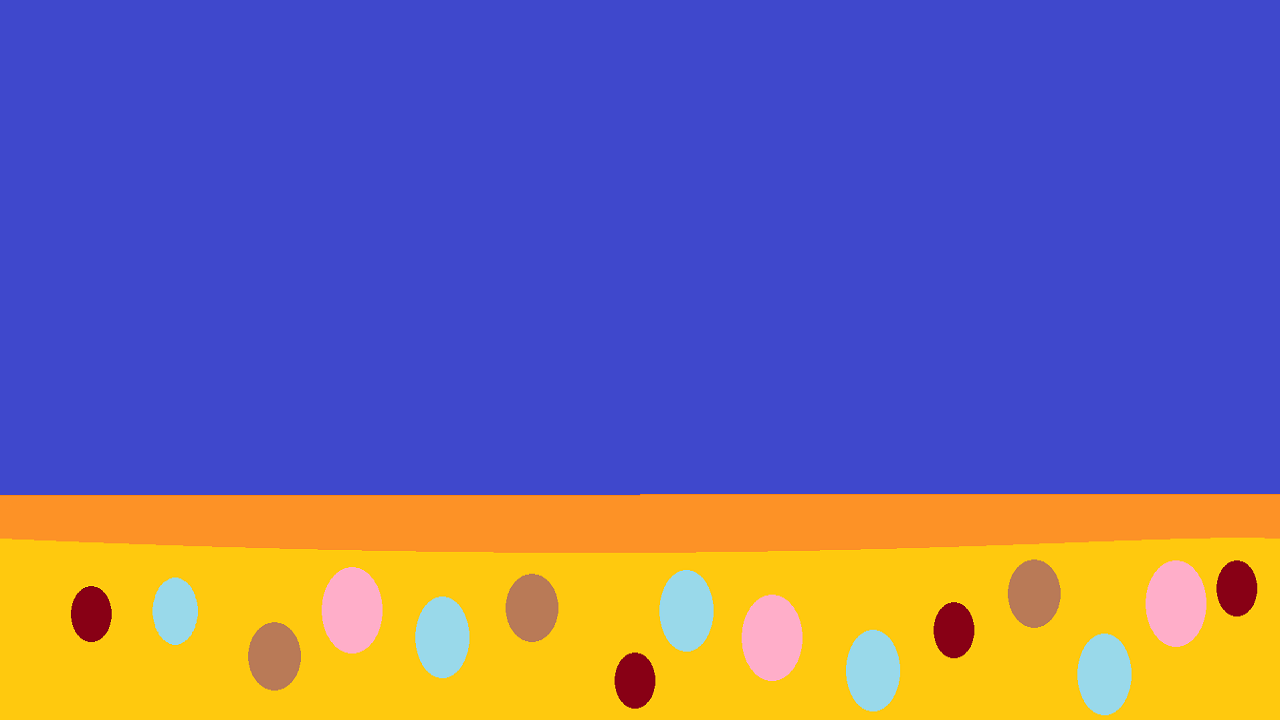
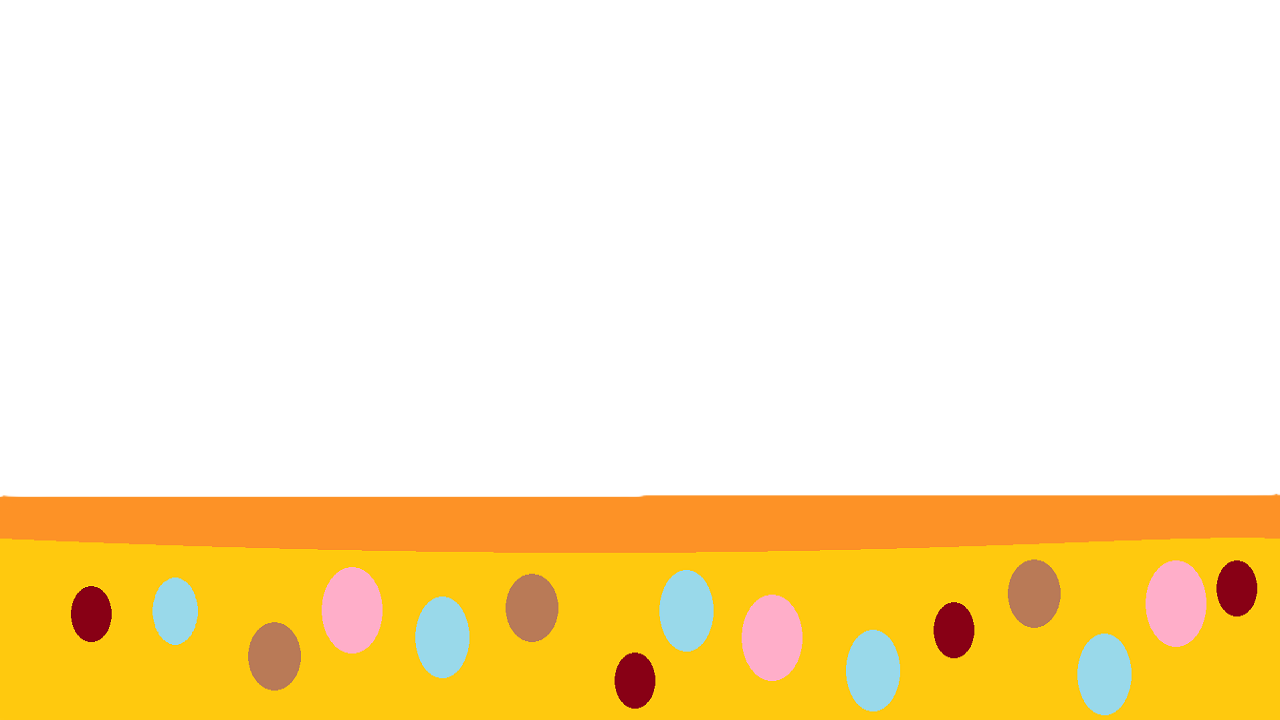
finished overlaying backgrounds; apparently I'm stupid

diff --git a/main.py b/main.py
@@ -116,9 +116,9 @@ class AllBackgrounds:
     self.background_3.speed = speed - 14
     
   def draw(self):
-    # self.background_3.draw()
-    # self.background_2.draw()
-    # self.background_1.draw()
+    self.background_3.draw()
+    self.background_2.draw()
+    self.background_1.draw()
     self.background_0.draw()
   
   def update(self):
@@ -138,44 +138,46 @@ class GameOver:
       SCREEN_WIDTH / 2, SCREEN_HEIGHT / 3, 'midtop')
     window.blit(self.replay_image, self.rect)
     
-class Hawk:
-  # Can change later once we're testing game
-  BIRD_HEIGHTS = [30, 50, 60, 90, 110, 120]
+# class Hawk:
+#   # Can change later once we're testing game
+#   BIRD_HEIGHTS = [30, 50, 60, 90, 110, 120]
   
-  def __init__(self, x: int):
-    self.x = x
-    self.y = GROUND_HEIGHT - random.choice(self.BIRD_HEIGHTS)
-    # May need to adjust sprite size
-    self.images = load_sprites('Assets/Hawk/', 'Hawk_', 100, 75)
-    self.img = self.images[0]
-    self.draw()
-    self.rect = self.img.get_rect()
-    # May need to adjust rectangle size
-    self.step_index = 0
-    self.rect.x = self.x
-    self.rect.y = 50
-  
-  def draw(self, window: pygame.Surface):
-    window.blit(self.img, (self.x, self.y))
+#   def __init__(self, speed = 10):
+#     # May need to adjust sprite size
+#     self.hawk_images = load_sprites('Assets/Hawk/', 'Hawk_', 5,  160, 160)
     
-  def move(self):
-    self.x = 13
-    # Will make the bird flap
-    # May need to adjust speed.
-    if self.step_index >= 40:
-      self.step_index = 0
+#     self.hawk_image_0, self.rect_0 = self.hawk_images[0], self.hawk_images[0].get_rect()
+#     self.hawk_image_0, self.rect_0 = self.hawk_images[1], self.hawk_images[1].get_rect()
+
+#     # May need to adjust rectangle size
+#     self.step_index = 0
+#     self.rect.x = self.x
+#     self.rect.y = 50
+  
+#   def draw(self, window: pygame.Surface):
+#     window.blit(self.img, (self.x, self.y))
+    
+#   def move(self):
+#     self.x = 13
+#     # Will make the bird flap
+#     # May need to adjust speed.
+#     if self.step_index >= 40:
+#       self.step_index = 0
       
-    self.img = self.images[self.step_index // 20]
-    self.rect = self.img.get_rect()
-    self.rect.x = self.x
-    self.rect.y = self.y
-    self.step_index += 1
+#     self.img = self.images[self.step_index // 20]
+#     self.rect = self.img.get_rect()
+#     self.rect.x = self.x
+#     self.rect.y = self.y
+#     self.step_index += 1
   
-  def collide(self, chicken: pygame.Rect):
-    if chicken.colliderect(self.rect):
-      return True
-    return False
-  
+  # def collide(self):
+    
+# class Tree:
+#   def __init__(self, speed = 10):
+#     self.tree_images = load_sprites('Assets/trees/tree', 'Hawk_', 5,  160, 160)
+#     # Will make more trees later.
+#     self.tree_image_0, self.rect_0 = self.tree_images[0],
+      
     
 def Start_Game():
   run = True
